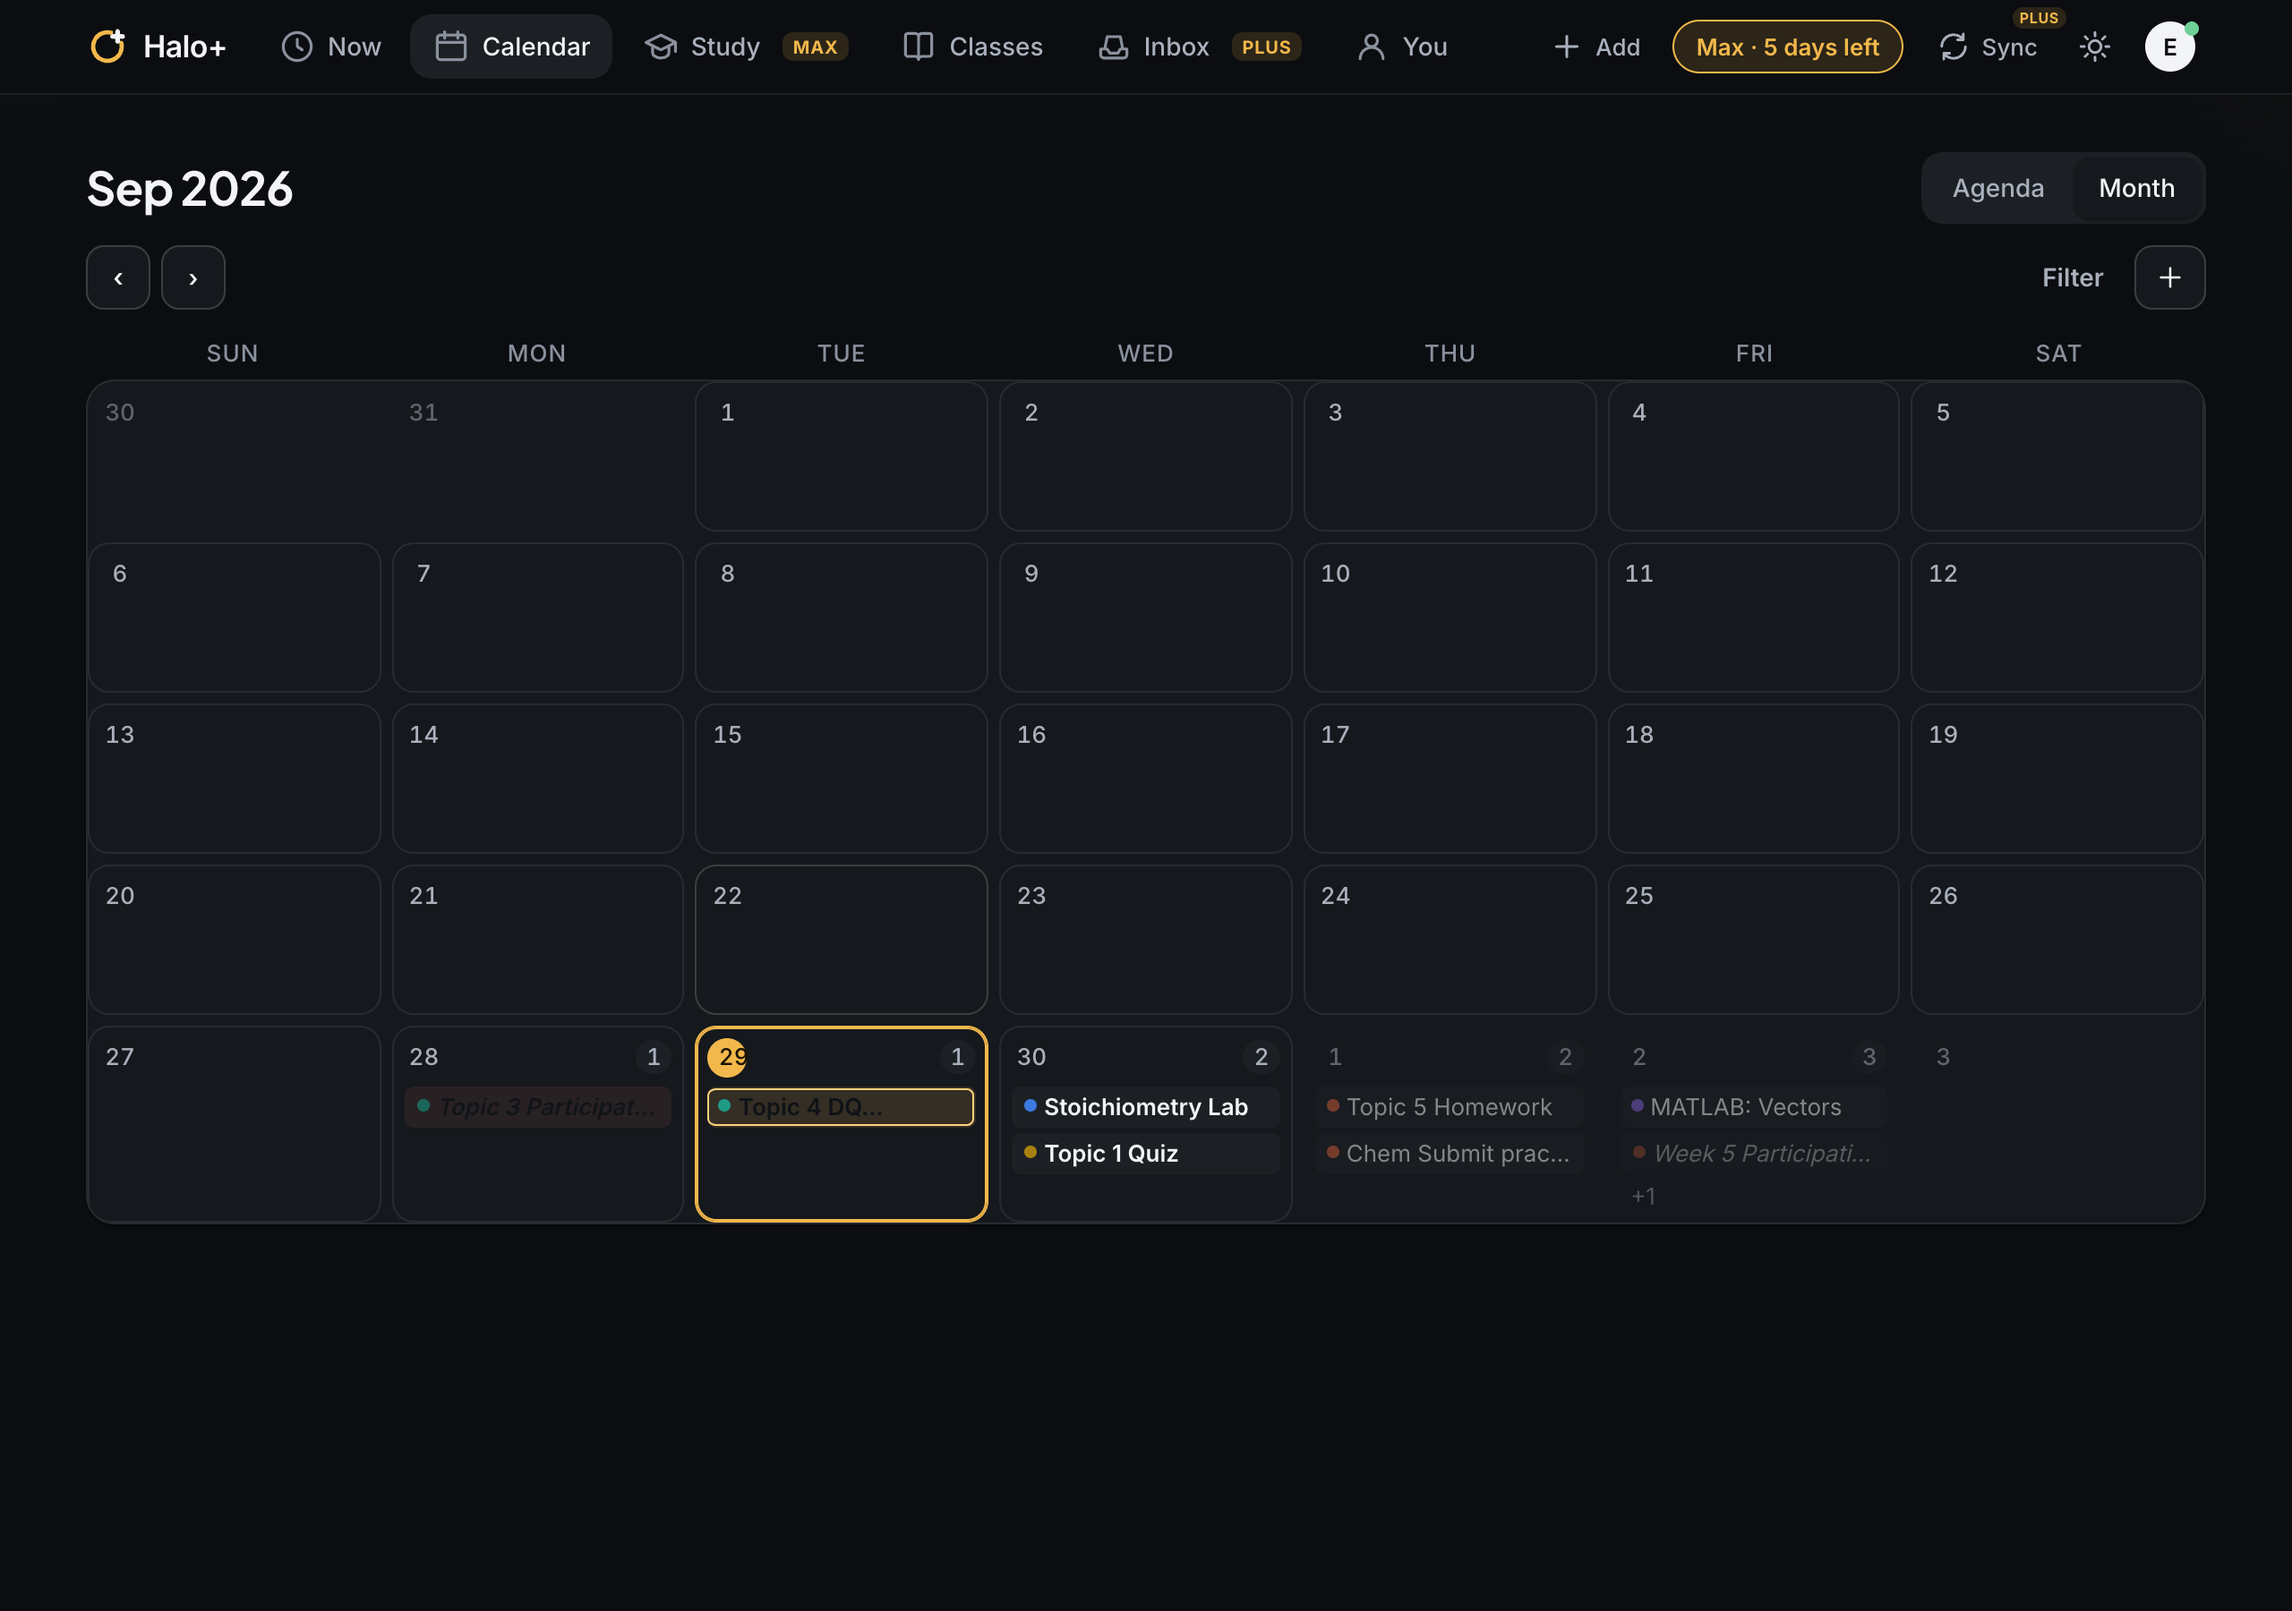
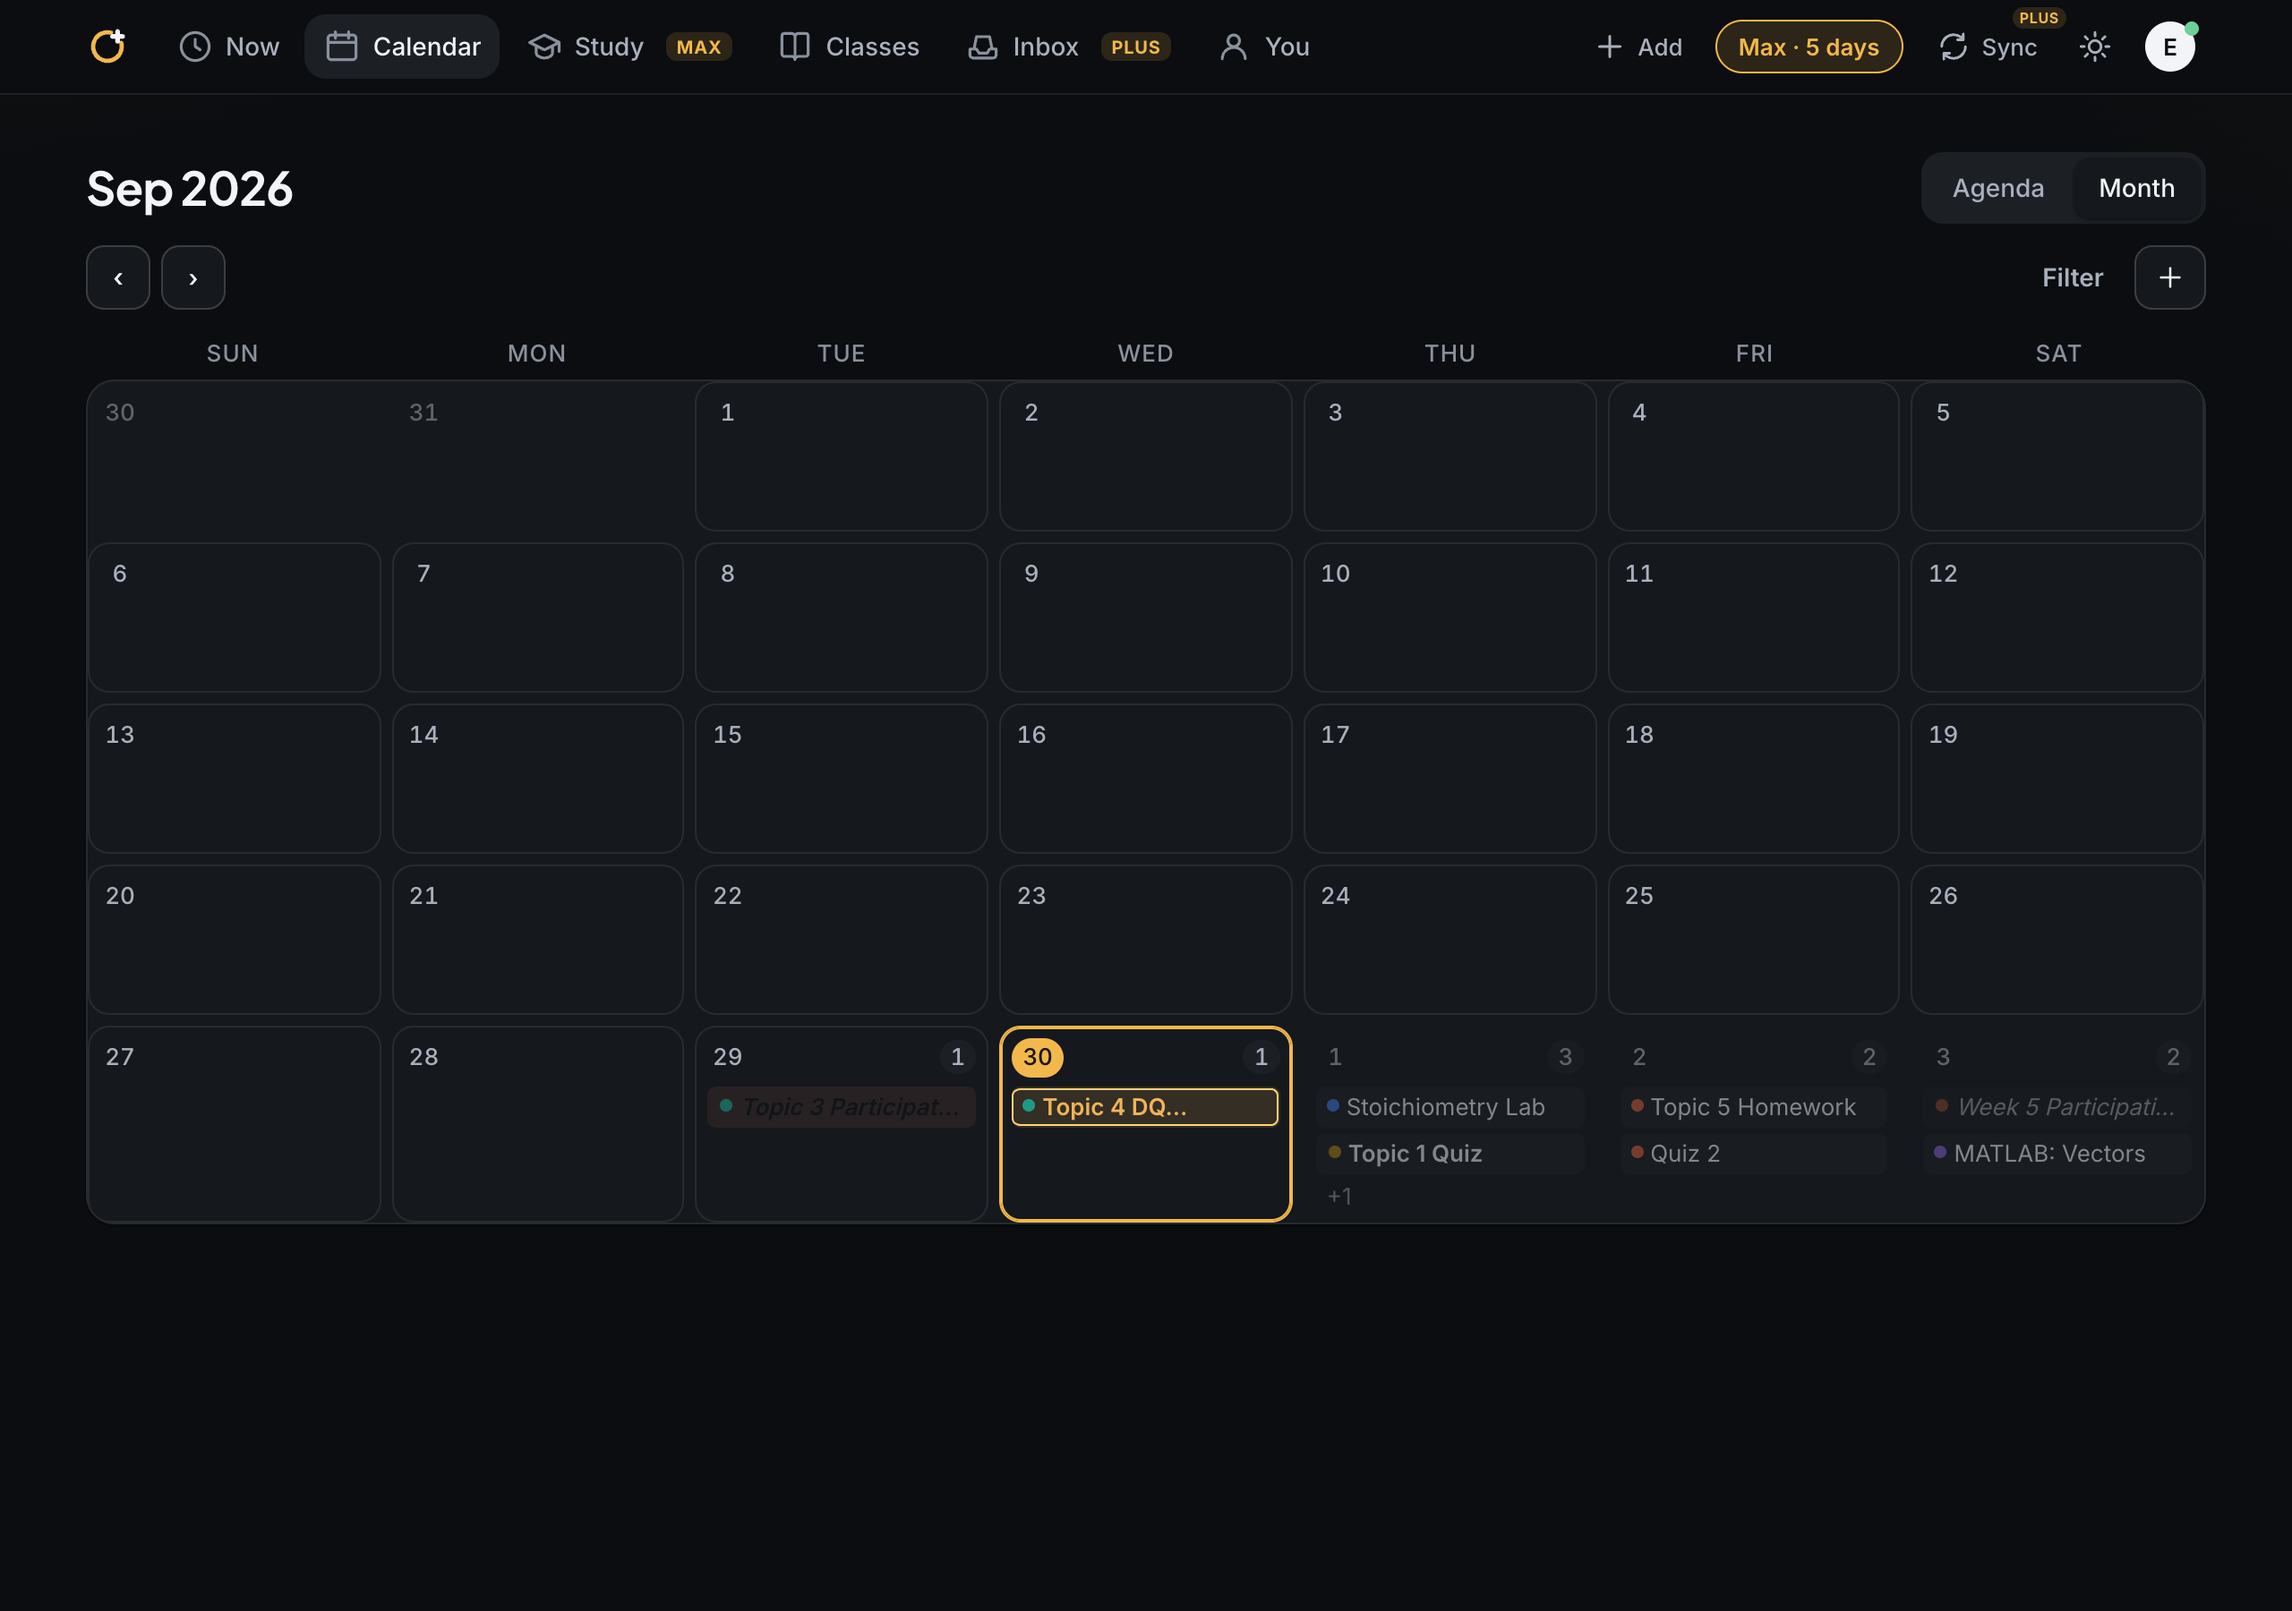
Loop 165: the month calendar's today fits its number and its item is readable in dark mode; on a phone the day and count stack

diff --git a/src/styles/screens.css b/src/styles/screens.css
@@ -378,6 +378,9 @@
   color: var(--accent-ink);
   border-radius: var(--r-pill);
   padding: 2px 6px;
+  /* A pill that fits two digits: the fixed 22px circle let "30" spill out of it. */
+  width: auto;
+  min-width: 22px;
 }
 .month-count {
   font: var(--t-micro);
@@ -2997,4 +3000,26 @@
 }
 .account-wait {
   min-height: 150px;
+}
+
+/* ---- month on a phone: a cell is ~44px wide, so the day and its count stack instead of spilling side by side ---- */
+@media (max-width: 639px) {
+  .month-cell {
+    padding: 4px 2px;
+    align-items: center;
+  }
+  .month-cell-top {
+    flex-direction: column;
+    gap: 3px;
+  }
+  .month-count,
+  .month-count[data-bold='true'],
+  .month-count[data-big='true'],
+  .month-cell[data-level='4'] .month-count {
+    font-size: 11px;
+    padding: 2px 5px;
+  }
+  .month-cell[data-today='true'] .month-daynum {
+    padding: 2px 4px;
+  }
 }

diff --git a/src/styles/base.css b/src/styles/base.css
@@ -1171,7 +1171,8 @@ button {
   flex: 0 0 auto;
   margin-top: 4px;
 }
-:root[data-theme='dark'] .chip-item[data-state='today'],
+/* Dark ink only on the filled chips; the plain month chip keeps its own light ink (it read black on dark grey). */
+:root[data-theme='dark'] .chip-item:not([data-plain='true'])[data-state='today'],
 :root[data-theme='dark'] .chip-item[data-state='overdue'] {
   color: #0f1216;
 }

diff --git a/LOOP_LOG.md b/LOOP_LOG.md
@@ -191,3 +191,4 @@ One line per change, newest last. Proposals that need George's approval are mark
 - 2026-09-30 · Loop 162 (overnight loop 5 of 10) · Referral links, the way a friend meets one (new scripts/e2e-referral.mjs: inviter's link opened signed out on a phone, sign up with a password, the gift, then the server). The rewards work: the friend is referred and both accounts get 30 days of Plus queued to start when their free week ends (2026-10-07 → 11-06; since migration 0017 they are reward_grants, not profile fields). What the friend saw did not match the invite they clicked: the first screen was the ordinary welcome with no sign of it, and the gift said "Then 30 days of Plus free, from your friend's invite" followed by "After 7 days you choose what to keep. Free stays free." (wrong: they move to Plus on day 8 without doing anything); the payoff said "After 7 days you go back to Free", and the You trial card said "Halo sync and the study tools pause". Now the welcome's eyebrow is "A friend invited you" with "Your invite is saved: a free week of Max, then 30 days of Plus free, for you and your friend."; the gift and payoff say Plus follows; the trial card says "Your friend's invite gives you Plus, free until <date>: Halo sync and announcements keep going; the study tools pause unless you keep Max" (the same helper the 2-days-left reminder already used). PASS light and dark, no page errors.
 - 2026-09-30 · Loop 163 (overnight loop 6 of 10) · The landing page, where every ad click lands. Four things a visitor would catch: (1) "on Plus a small Chrome extension also syncs by itself whenever you open Halo": wrong since loop 156; now "every 3 hours while Chrome is open", also on the Upgrade screen and in the Web Store listing (docs/webstore/LISTING.md, summary 119 of 132 characters, description rewritten for the background tab, Undo, logged-out and Sync now); (2) the demo card's heads-up said "Start the paper by Sep 29", already in the past today: now "Next week is heavy: 5 items, 400 pts. Start the paper this weekend." with no date that can go stale; (3) each price's terms broke into a stray "· Cancel anytime" line: they sit on their own line under "$4.99 a month"; (4) three plans in a four-column grid left an empty slot beside Max on desktop: three columns. Landing test updated for the new markup; e2e-tax-line PASS.
 - 2026-09-30 · Loop 164 (overnight loop 7 of 10) · New student on an iPad, dark (first-five walk, iPad dark and phone light, no console errors): Now's hero said "English DQ 1.1 · 10 pts · 67% of grade". The share was the item's points over whatever the class had on file, with no minimum, so right after a first sync (or whenever Halo lists only a few assignments) a 10-point discussion looked like two-thirds of the grade; the sweep account showed "Quiz 2 · 50 pts · 53% of grade" the same way, and the old test even expected "100% of grade" for a lone item. The share now needs at least six pointed items in the class (domain/share.ts SHARE_MIN_ITEMS); below that the chip says just "10 pts". Checked against George's real account (read only): every class has 27 to 41 pointed items and about 1,000 points, so real students still see it. Tests: share and heroFacts updated (a thin class shows the points alone).
+- 2026-09-30 · Loop 165 (overnight loop 8 of 10) · Daily user, Calendar → Month (sweep, desk dark and phone light/dark). Today's cell looked broken: the "30" spilled out of its gold circle (a fixed 22 px circle with 6 px side padding leaves 10 px for two digits; it is now a pill with a 22 px minimum), and in dark mode today's item chip was near-black text on dark grey ("Topic 4 DQ…" barely readable): a dark-theme rule meant for the old filled chips set #0f1216 on every today chip and outranked the plain month chip; it now skips plain chips. On a phone each cell is ~44 px, so the day number and its count badge ("29 1", "30 1") spilled out side by side; under 640 px they stack (number, then count) and the cell padding tightens. Re-swept all three, no findings.
